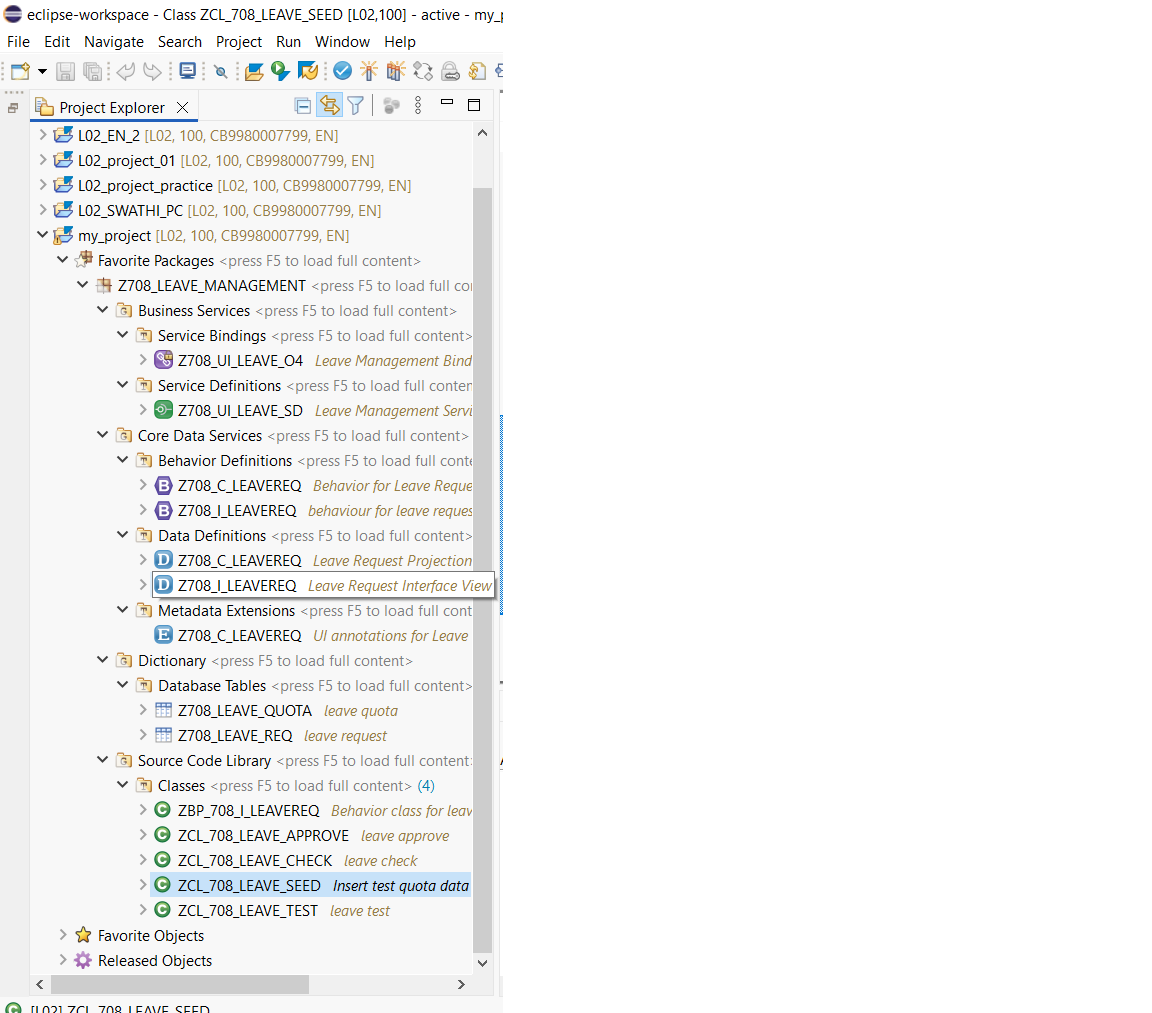
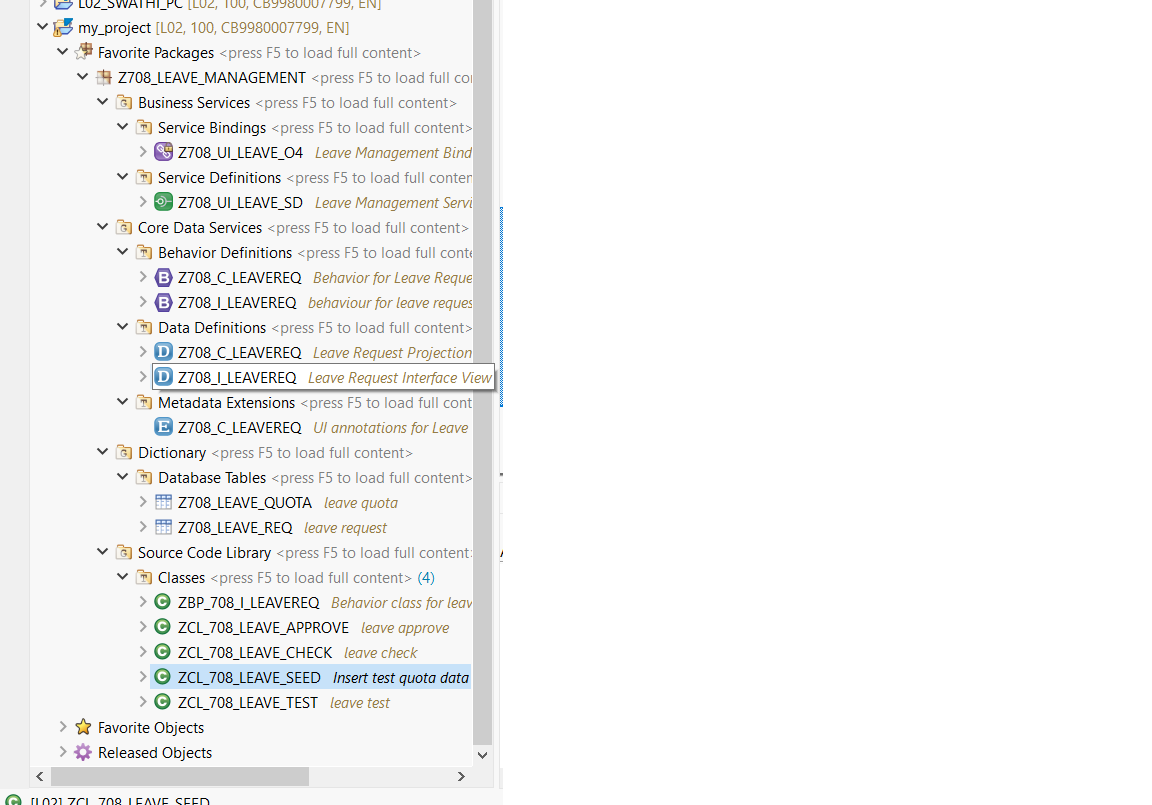
Add files via upload
Add draft handling, feature control and Fiori screenshots

Changed region(s): [[0.0, 0.0, 0.4375, 1.0], [0.4062, 0.9006, 0.4375, 0.9627]]

diff --git a/README.md b/README.md
@@ -1,14 +1,15 @@
 # Employee Leave Management System (SAP ABAP Cloud, RAP)
 
-A managed RAP business object for leave requests, built with ABAP Cloud on SAP BTP.
+A draft-enabled, managed RAP business object for leave requests with a Fiori Elements UI, built with ABAP Cloud on SAP BTP.
 
 ## What it does
 - Employees create leave requests; the system sets the status and calculates the days.
 - Validations block bad data: invalid dates, overlapping leaves, and requests above the leave quota.
 - Managers approve or reject requests through custom actions.
+- Users can save work in progress as a draft before creating the request.
 
 ## Architecture
-Database tables, then CDS interface view, then managed behavior definition, then projection view and projection behavior, then metadata extension (UI annotations), then service definition and OData V4 UI service binding.
+Database tables (with a draft table), then CDS interface view, then managed behavior definition with draft, then projection view and projection behavior, then metadata extension (UI annotations), then service definition and OData V4 UI service binding.
 
 ## Features
 | Feature | Type | Description |
@@ -19,10 +20,12 @@ Database tables, then CDS interface view, then managed behavior definition, then
 | Overlap check | Validation | No overlapping requests for the same employee |
 | Balance check | Validation | Approved days plus the request cannot exceed quota |
 | Approve / Reject | Actions | Change status only from S to A or R |
+| Feature control | Instance features | Approve and Reject are enabled only on saved requests in status S |
+| Draft handling | RAP draft | Users save work in progress before creating the request |
 | Status text and colors | CDS | Shows Submitted, Approved or Rejected with criticality |
 
 ## Project structure
-- `tables/` database tables
+- `tables/` database tables, including the draft table
 - `cds/` interface and projection views
 - `behavior/` behavior definitions and the implementation class
 - `ui/` UI annotations (metadata extension)
@@ -31,15 +34,23 @@ Database tables, then CDS interface view, then managed behavior definition, then
 - `screenshots/` proof of each test
 
 ## Testing
-Logic was tested with ABAP console classes using EML (Entity Manipulation Language). Screenshots of each test are in the `screenshots` folder.
+Logic was tested with ABAP console classes using EML (Entity Manipulation Language) and through the Fiori Elements app (create, validations, approve, reject). Screenshots are in the `screenshots` folder.
 
 ## Known limitations
 - Leave days include weekends and public holidays.
 - The overlap check reads only saved data.
-- The Fiori preview could not be run on the training system because of a UCON restriction.
+- Authorization is global, so any user can approve. Instance authorization is a planned improvement.
+- The employee ID is typed by the user and not taken from the logged-in user.
+- The app was tested through the ADT preview and is not deployed to a Fiori Launchpad.
+
+## Possible improvements
+- Instance authorization so only managers can approve
+- Value help for leave types
+- Holiday-aware day calculation
+- ABAP Unit tests
 
 ## Tech stack
-ABAP Cloud, RAP, CDS, EML, OData V4, Fiori Elements annotations
+ABAP Cloud, RAP (managed, draft), CDS, EML, OData V4, Fiori Elements annotations
 
 ## Author
-chilla swathi
+Chilla Swathi
